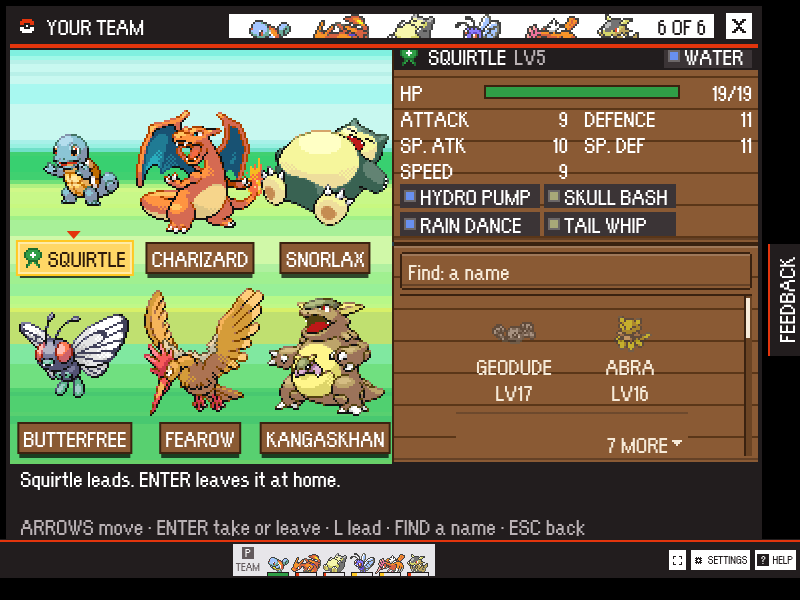
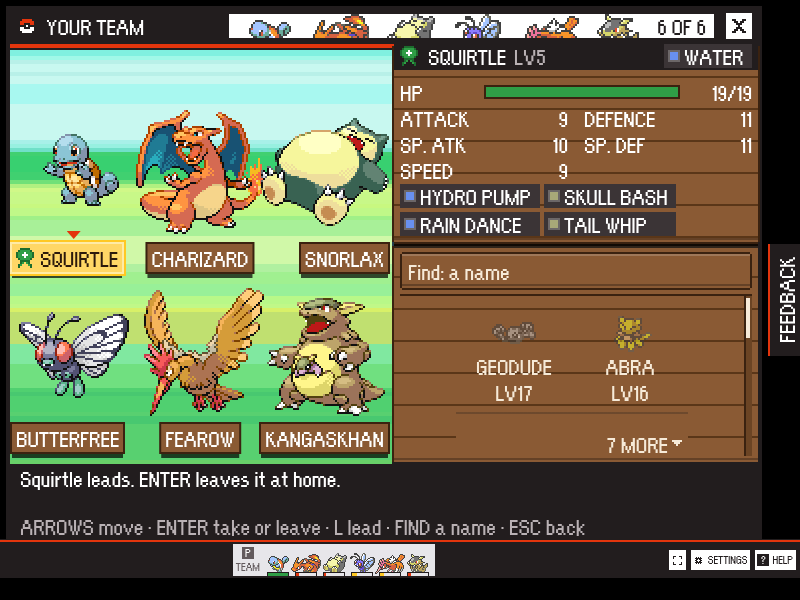
YOUR TEAM's card stands over the mounds, a small window's plates stay inside the field, and the front page's picture of the bench is of the screen the bench opens
- A mound is wider than its place, and the last one's ran in over the
  card's edge: the first letters of NEXT LV and of a move were grass.
  The card is over the stage's figures now.
- In a small window the first plate of a row starts at its place's edge
  and the last ends at its, so a long name or a rosette does not go out
  of the side of the field.
- The front page showed the bench as a panel over the hall, which it
  stopped being when it became YOUR TEAM. The picture is YOUR TEAM, from
  teamShots.mjs, which takes --port and passes at 800x512 and 1280x800:
  every slot and tile reached by the arrows.

diff --git a/src/style.css b/src/style.css
@@ -10822,6 +10822,10 @@ body.touch-play .feedback-tab {
      QUICK ATTACK): at 156 four moves were three rows, and the card ran out of
      the foot of the stage. */
   width: calc(var(--u) * 176);
+  /* Over whoever stands nearest: a mound is wider than its place, and the last
+     one's ran in under the card's edge and over its words (the first letters
+     of NEXT LV and of a move were grass). */
+  z-index: 3;
 }
 :where(.pixel-ui) .team-cards .team-moves {
   display: grid;
@@ -11057,8 +11061,25 @@ body.touch-play .feedback-tab {
   gap: var(--u);
   padding: 0 calc(var(--u) * 2);
 }
-.pixel-ui:is([data-room='tight'], [data-short]) .team-layout .team-line .team-stand:first-child .team-plate {
+/* A plate is wider than a place when the name is long or the rosette is on
+   it: the first of a row starts at its place's edge and the last ends at
+   its, so none goes out of the side of the field. */
+.pixel-ui:is([data-room='tight'], [data-short]) .team-layout .team-line .team-stand:nth-child(3n + 1) .team-plate {
+  left: 0;
+  transform: none;
+}
+.pixel-ui:is([data-room='tight'], [data-short]) .team-layout .team-line .team-stand:nth-child(3n + 2) .team-plate {
   left: 50%;
+  transform: translateX(-50%);
+}
+.pixel-ui:is([data-room='tight'], [data-short]) .team-layout .team-line .team-stand:nth-child(3n) .team-plate {
+  left: auto;
+  right: 0;
+  transform: none;
+}
+.pixel-ui:is([data-room='tight'], [data-short]) .team-layout .team-line .team-stand:only-child .team-plate {
+  left: 50%;
+  right: auto;
   transform: translateX(-50%);
 }
 .pixel-ui:is([data-room='tight'], [data-short]) .team-layout .team-plate > :is(.team-plate-level, .team-plate-lead, .px-hp) {

diff --git a/src/style.test.ts b/src/style.test.ts
@@ -929,6 +929,8 @@ describe('a small window', () => {
 
   it("gives YOUR TEAM's card two long moves side by side, and a number the room it needs", () => {
     expect(body(':where(.pixel-ui) .team-cards .team-moves')).toContain('grid-template-columns: repeat(2, max-content);');
+    // Over the mounds: the last one's ran in over the card's first letters.
+    expect(body(':where(.pixel-ui) .team-cards')).toContain('z-index: 3;');
     expect(body(':where(.pixel-ui) .team-card-foot')).toContain('flex-wrap: wrap;');
     expect(body(':where(.pixel-ui) .px-stat')).toContain('minmax(calc(var(--u) * 34), auto);');
   });

diff --git a/docs/readme/README.md b/docs/readme/README.md
@@ -19,7 +19,7 @@ number of screen pixels to the game pixel and stays sharp on a high-density disp
 | `hunter.png`, `battle.png` | The hunters coming out in Millbrook, and a fight with Blue (1600x1024) | `readmeShots.mjs --window=1600x1024`; `battle.png` was taken with the one hunter a raid had before the pack, and `--battle` is what would ask for it again |
 | `harbour.png` | The harbour with every one of Brock's upgrades built, by day (1600x1024) | `harbourTour.mjs --built=all --clock=day --window=1600x1024 --at=readme:12:19`, its `readme.png`: standing on the jetty a raid comes home to |
 | `brocks-workshop.png` | Inside Brock's Workshop, every bay built (800x512) | `readmeShots.mjs --part=base --rooms=brocks-workshop` |
-| `the-bench.png` | Getting ready on the floor of the Raid Arena: the bench over the hall (800x512) | `arenaHall.mjs --window=800x512`, its `3-bench.png` |
+| `the-bench.png` | YOUR TEAM, which the red bench in the Raid Arena opens: three on the team, twenty-one more in the chest (800x512, so the layout a small window gets). The picture before it was of a panel over the hall, which the bench stopped being when it became YOUR TEAM | `teamShots.mjs <build url>?testmode=pixels <out> --window=800x512`, its `01-team.png` |
 | `the-rim.png` | Looking down from the rim: the portal, the pit seen whole, with the card down the side (1600x1024, shown at half: an 800x512 window has no room for the portal beside the card) | `portal.mjs --window=1600x1024 --tz=Etc/UTC --eval=1`, its `5-looking-down-03.png`: `--tz` is any zone where it is day when the picture is taken, because the pit keeps the clock's hour |
 | `pack.png` | The pack opened mid-raid, beside the three Potions and three Poké Balls it went out with, with a few finds put in the raid's own bag first: a crate, a roll of linen, a valve, a Super Potion, a Thunder Stone and ₽40 (800x512). Retaken when the pack went onto the wood floor: the picture before it was of a look three redraws old | `readmeShots.mjs` |
 | `map-maker.png` | The map maker with the sample map open at 1X, on the wood floor (1600x1000) | `readmeShots.mjs --part=maker --window=1600x1000` |

diff --git a/README.md b/README.md
@@ -69,7 +69,7 @@ might lose instead. The pack is a grid of squares, not a list, so a Super Potion
 parts are fighting for the same space. Whatever you can't bear to lose goes in the locker, if it fits.
 
 <p align="center">
-  <img src="docs/readme/the-bench.png" width="800" alt="The player standing at the red bench in the torchlit room at the end of the Raid Arena's tunnel, the great doors behind a panel listing who can come on the raid.">
+  <img src="docs/readme/the-bench.png" width="800" alt="YOUR TEAM, the screen the red bench opens: three Pokémon standing on the grass with their names under them, the leader's numbers and moves beside them, and under those the chest's list of who else could come.">
 </p>
 
 ### 2. Jump in, and the clock starts

diff --git a/docs/screens/small-window/README.md b/docs/screens/small-window/README.md
@@ -120,6 +120,9 @@ In any window, with four or more:
 - **A plate at the back shows under the cursor.** Six plates do not fit under six
   places; the front row's show, and one at the back shows its own, in front, when the
   cursor is on it.
+- **The card stands over the mounds.** A mound is wider than its place, and the last
+  one's ran in over the card's edge: the first letters of NEXT LV and of a move were
+  grass.
 
 And the card, in any window:
 
